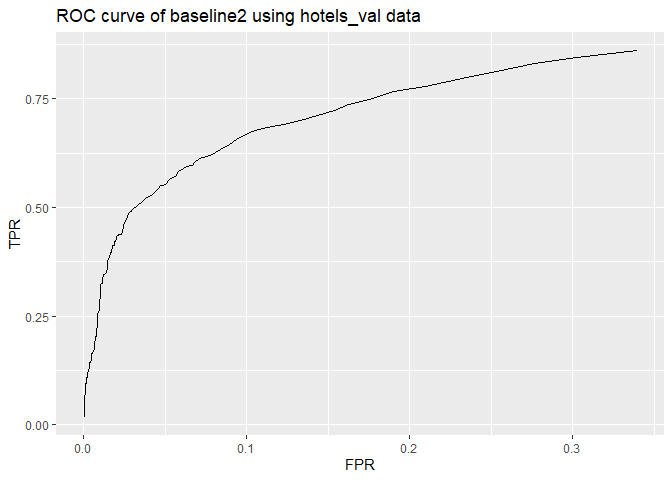
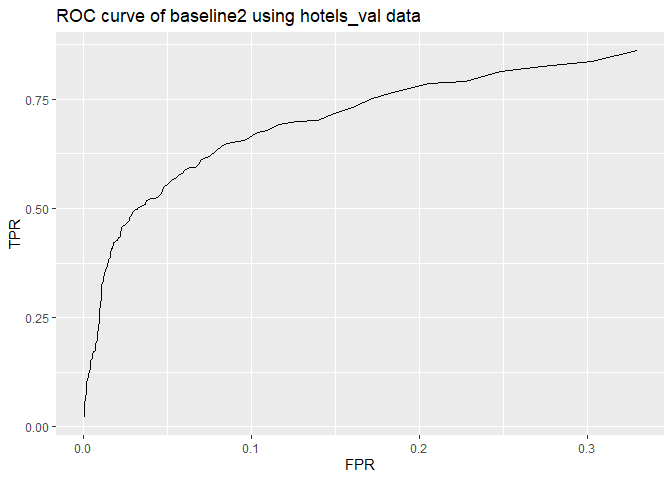
Final

diff --git a/HW2_RM.md b/HW2_RM.md
@@ -1,13 +1,8 @@
 ## Question 1. Data Visualization
 
-![](HW2_RM_files/figure-markdown_strict/unnamed-chunk-3-1.png) ### On
-weekdays, the average number of boardings is roughly the same, and on
-weekends, it drops as expected. On weekdays, the peak hour of boarding
-numbers remains consistent between 3 and 5 pm for all three months,
-owing to the fact that classes normally complete around that time. The
-average boardings on Mondays in September are lower due to Labor Day,
-which falls on the first Monday of the month, and those on Wednesdays,
-Thursdays, and Fridays in November due to the Thanksgiving holidays)
+![](HW2_RM_files/figure-markdown_strict/unnamed-chunk-3-1.png)
+
+### On weekdays, the average number of boardings is roughly the same, and on weekends, it drops as expected. On weekdays, the peak hour of boarding numbers remains consistent between 3 and 5 pm for all three months, owing to the fact that classes normally complete around that time. The average boardings on Mondays in September are lower due to Labor Day, which falls on the first Monday of the month, and those on Wednesdays, Thursdays, and Fridays in November due to the Thanksgiving holidays)
 
 ![](HW2_RM_files/figure-markdown_strict/unnamed-chunk-5-1.png)
 
@@ -24,48 +19,48 @@ Thursdays, and Fridays in November due to the Thanksgiving holidays)
     ## 
     ## Residuals:
     ##     Min      1Q  Median      3Q     Max 
-    ## -229146  -34487   -5753   27484  457291 
+    ## -220402  -34540   -5128   27705  461251 
     ## 
     ## Coefficients:
     ##                          Estimate Std. Error t value Pr(>|t|)    
-    ## (Intercept)             1.934e+05  2.232e+04   8.665  < 2e-16 ***
-    ## lotSize                 9.142e+03  2.282e+03   4.006 6.48e-05 ***
-    ## age                    -4.339e+01  6.082e+01  -0.713 0.475726    
-    ## landValue               8.835e-01  4.984e-02  17.726  < 2e-16 ***
-    ## livingArea              6.230e+01  4.993e+00  12.477  < 2e-16 ***
-    ## bedrooms               -6.427e+03  2.728e+03  -2.356 0.018622 *  
-    ## fireplaces              1.857e+03  3.110e+03   0.597 0.550478    
-    ## bathrooms               2.564e+03  7.974e+03   0.322 0.747833    
-    ## rooms                  -2.348e+03  2.171e+03  -1.082 0.279619    
-    ## heatinghot water/steam -5.864e+03  4.399e+03  -1.333 0.182728    
-    ## heatingelectric        -2.213e+03  1.268e+04  -0.175 0.861457    
-    ## fuelelectric           -5.582e+03  1.247e+04  -0.448 0.654511    
-    ## fueloil                -2.795e+03  5.011e+03  -0.558 0.577112    
-    ## waterfrontNo           -1.246e+05  1.555e+04  -8.013 2.20e-15 ***
-    ## centralAirNo           -1.248e+04  3.612e+03  -3.454 0.000567 ***
-    ## bathrooms:rooms         2.835e+03  9.946e+02   2.851 0.004422 ** 
+    ## (Intercept)             1.847e+05  2.306e+04   8.010 2.25e-15 ***
+    ## lotSize                 1.012e+04  2.368e+03   4.273 2.05e-05 ***
+    ## age                    -7.807e+01  5.974e+01  -1.307  0.19152    
+    ## landValue               8.539e-01  4.917e-02  17.367  < 2e-16 ***
+    ## livingArea              6.782e+01  4.896e+00  13.853  < 2e-16 ***
+    ## bedrooms               -8.189e+03  2.721e+03  -3.009  0.00266 ** 
+    ## fireplaces              2.347e+03  3.067e+03   0.765  0.44426    
+    ## bathrooms               3.299e+03  7.854e+03   0.420  0.67449    
+    ## rooms                  -1.592e+03  2.134e+03  -0.746  0.45567    
+    ## heatinghot water/steam -8.792e+03  4.350e+03  -2.021  0.04345 *  
+    ## heatingelectric        -1.445e+03  1.254e+04  -0.115  0.90825    
+    ## fuelelectric           -7.236e+03  1.232e+04  -0.587  0.55702    
+    ## fueloil                -3.536e+03  4.961e+03  -0.713  0.47612    
+    ## waterfrontNo           -1.204e+05  1.716e+04  -7.017 3.40e-12 ***
+    ## centralAirNo           -9.728e+03  3.588e+03  -2.711  0.00678 ** 
+    ## bathrooms:rooms         2.410e+03  9.851e+02   2.446  0.01455 *  
     ## ---
     ## Signif. codes:  0 '***' 0.001 '**' 0.01 '*' 0.05 '.' 0.1 ' ' 1
     ## 
-    ## Residual standard error: 58470 on 1539 degrees of freedom
-    ## Multiple R-squared:  0.6477, Adjusted R-squared:  0.6443 
-    ## F-statistic: 188.6 on 15 and 1539 DF,  p-value: < 2.2e-16
+    ## Residual standard error: 57800 on 1539 degrees of freedom
+    ## Multiple R-squared:  0.6547, Adjusted R-squared:  0.6513 
+    ## F-statistic: 194.5 on 15 and 1539 DF,  p-value: < 2.2e-16
 
 ## Question 3. Classification and retrospective sampling
 
 ![](HW2_RM_files/figure-markdown_strict/unnamed-chunk-11-1.png)
 
     ##         (Intercept)            duration              amount         installment 
-    ##                0.49                1.03                1.00                1.26 
+    ##                0.44                1.03                1.00                1.29 
     ##                 age         historypoor     historyterrible          purposeedu 
-    ##                0.98                0.26                0.11                2.74 
+    ##                0.98                0.27                0.12                1.32 
     ## purposegoods/repair       purposenewcar      purposeusedcar       foreigngerman 
-    ##                1.29                2.66                0.46                0.16
+    ##                1.16                2.44                0.58                0.37
 
     ##    yhat
     ## y     0   1
-    ##   0 159  17
-    ##   1  53  21
+    ##   0 161  15
+    ##   1  60  14
 
 <table>
 <thead>
@@ -94,7 +89,7 @@ Thursdays, and Fridays in November due to the Thanksgiving holidays)
 </tbody>
 </table>
 
-### The ‘historypoor’ variable multiplies odds of default by 0.39 in this logistic regression model, while the ‘historyterrible’ variable multiplies odds of default by 0.19. This means that having poor or terrible credit actually decreases the probability of default. This contradicts common sense; we believe the dataset is insufficient for developing a predictive model of defaults, particularly if the program’s goal is to screen potential borrowers and identify them as having a “high” or “low” risk of default. It’s due to the data sampling procedure. Instead of random sample, the bank chose defaulted loans and looked for similar loans during the data sampling procedure. This most certainly resulted in a significant bias in the data collection process: as previously stated, defaulted loans are likely to have low or horrible credit histories, and there would be insufficient datasets with good credit histories. In fact, just 89 observations out of 1000 had a decent credit history. Even though there would be a small number of defaulted loans, I would advise the bank to employ a random sample method. Increasing the size of the observations, if possible, will be really beneficial.
+#### The `historypoor` variable multiplies odds of default by 0.39 in this logistic regression model, while the `historyterrible` variable multiplies odds of default by 0.19. This means that having poor or terrible credit actually decreases the probability of default. This contradicts common sense; we believe the dataset is insufficient for developing a predictive model of defaults, particularly if the program’s goal is to screen potential borrowers and identify them as having a “high” or “low” risk of default. It’s due to the data sampling procedure. Instead of random sample, the bank chose defaulted loans and looked for similar loans during the data sampling procedure. This most certainly resulted in a significant bias in the data collection process: as previously stated, defaulted loans are likely to have low or horrible credit histories, and there would be insufficient datasets with good credit histories. In fact, just 89 observations out of 1000 had a decent credit history. Even though there would be a small number of defaulted loans, I would advise the bank to employ a random sample method. Increasing the size of the observations, if possible, will be really beneficial.
 
 ## Question 4. Children and hotel reservations
 
@@ -116,14 +111,14 @@ Thursdays, and Fridays in November due to the Thanksgiving holidays)
 </tr>
 <tr class="even">
 <td style="text-align: left;">baseline2</td>
-<td style="text-align: right;">0.0500688</td>
-<td style="text-align: right;">0.0012571</td>
+<td style="text-align: right;">0.0558459</td>
+<td style="text-align: right;">0.0016681</td>
 <td style="text-align: right;">0.7</td>
 </tr>
 <tr class="odd">
 <td style="text-align: left;">LPM</td>
-<td style="text-align: right;">0.0269601</td>
-<td style="text-align: right;">0.0007494</td>
+<td style="text-align: right;">0.0283356</td>
+<td style="text-align: right;">0.0008945</td>
 <td style="text-align: right;">0.7</td>
 </tr>
 <tr class="even">
@@ -134,32 +129,32 @@ Thursdays, and Fridays in November due to the Thanksgiving holidays)
 </tr>
 <tr class="odd">
 <td style="text-align: left;">baseline2</td>
-<td style="text-align: right;">0.0822558</td>
-<td style="text-align: right;">0.0026593</td>
+<td style="text-align: right;">0.0921596</td>
+<td style="text-align: right;">0.0029252</td>
 <td style="text-align: right;">0.5</td>
 </tr>
 <tr class="even">
 <td style="text-align: left;">LPM</td>
-<td style="text-align: right;">0.0830812</td>
-<td style="text-align: right;">0.0033362</td>
+<td style="text-align: right;">0.0902338</td>
+<td style="text-align: right;">0.0034329</td>
 <td style="text-align: right;">0.5</td>
 </tr>
 <tr class="odd">
 <td style="text-align: left;">baseline1</td>
+<td style="text-align: right;">0.0002751</td>
 <td style="text-align: right;">0.0000000</td>
-<td style="text-align: right;">0.0000484</td>
 <td style="text-align: right;">0.2</td>
 </tr>
 <tr class="even">
 <td style="text-align: left;">baseline2</td>
-<td style="text-align: right;">0.1262724</td>
-<td style="text-align: right;">0.0109271</td>
+<td style="text-align: right;">0.1389271</td>
+<td style="text-align: right;">0.0109755</td>
 <td style="text-align: right;">0.2</td>
 </tr>
 <tr class="odd">
 <td style="text-align: left;">LPM</td>
-<td style="text-align: right;">0.1229711</td>
-<td style="text-align: right;">0.0109996</td>
+<td style="text-align: right;">0.1345254</td>
+<td style="text-align: right;">0.0122567</td>
 <td style="text-align: right;">0.2</td>
 </tr>
 </tbody>
@@ -185,131 +180,131 @@ Thursdays, and Fridays in November due to the Thanksgiving holidays)
 <tbody>
 <tr class="odd">
 <td style="text-align: left;">Fold01</td>
-<td style="text-align: left;">21</td>
 <td style="text-align: left;">19</td>
-<td style="text-align: left;">-2</td>
+<td style="text-align: left;">19</td>
+<td style="text-align: left;">0</td>
 </tr>
 <tr class="even">
 <td style="text-align: left;">Fold02</td>
-<td style="text-align: left;">20</td>
-<td style="text-align: left;">18</td>
-<td style="text-align: left;">-2</td>
+<td style="text-align: left;">22</td>
+<td style="text-align: left;">21</td>
+<td style="text-align: left;">-1</td>
 </tr>
 <tr class="odd">
 <td style="text-align: left;">Fold03</td>
-<td style="text-align: left;">23</td>
+<td style="text-align: left;">22</td>
 <td style="text-align: left;">20</td>
-<td style="text-align: left;">-3</td>
+<td style="text-align: left;">-2</td>
 </tr>
 <tr class="even">
 <td style="text-align: left;">Fold04</td>
 <td style="text-align: left;">18</td>
-<td style="text-align: left;">17</td>
-<td style="text-align: left;">-1</td>
-</tr>
-<tr class="odd">
-<td style="text-align: left;">Fold05</td>
-<td style="text-align: left;">20</td>
-<td style="text-align: left;">16</td>
-<td style="text-align: left;">-4</td>
-</tr>
-<tr class="even">
-<td style="text-align: left;">Fold06</td>
-<td style="text-align: left;">20</td>
-<td style="text-align: left;">21</td>
-<td style="text-align: left;">1</td>
-</tr>
-<tr class="odd">
-<td style="text-align: left;">Fold07</td>
-<td style="text-align: left;">18</td>
-<td style="text-align: left;">27</td>
-<td style="text-align: left;">9</td>
-</tr>
-<tr class="even">
-<td style="text-align: left;">Fold08</td>
-<td style="text-align: left;">22</td>
-<td style="text-align: left;">25</td>
-<td style="text-align: left;">3</td>
-</tr>
-<tr class="odd">
-<td style="text-align: left;">Fold09</td>
-<td style="text-align: left;">17</td>
-<td style="text-align: left;">11</td>
-<td style="text-align: left;">-6</td>
-</tr>
-<tr class="even">
-<td style="text-align: left;">Fold10</td>
-<td style="text-align: left;">21</td>
-<td style="text-align: left;">27</td>
+<td style="text-align: left;">24</td>
 <td style="text-align: left;">6</td>
 </tr>
 <tr class="odd">
-<td style="text-align: left;">Fold11</td>
+<td style="text-align: left;">Fold05</td>
 <td style="text-align: left;">22</td>
-<td style="text-align: left;">27</td>
-<td style="text-align: left;">5</td>
+<td style="text-align: left;">20</td>
+<td style="text-align: left;">-2</td>
 </tr>
 <tr class="even">
-<td style="text-align: left;">Fold12</td>
-<td style="text-align: left;">20</td>
-<td style="text-align: left;">17</td>
-<td style="text-align: left;">-3</td>
+<td style="text-align: left;">Fold06</td>
+<td style="text-align: left;">18</td>
+<td style="text-align: left;">21</td>
+<td style="text-align: left;">3</td>
 </tr>
 <tr class="odd">
-<td style="text-align: left;">Fold13</td>
+<td style="text-align: left;">Fold07</td>
+<td style="text-align: left;">22</td>
 <td style="text-align: left;">21</td>
-<td style="text-align: left;">23</td>
-<td style="text-align: left;">2</td>
+<td style="text-align: left;">-1</td>
 </tr>
 <tr class="even">
-<td style="text-align: left;">Fold14</td>
-<td style="text-align: left;">24</td>
-<td style="text-align: left;">25</td>
+<td style="text-align: left;">Fold08</td>
+<td style="text-align: left;">18</td>
+<td style="text-align: left;">19</td>
 <td style="text-align: left;">1</td>
 </tr>
 <tr class="odd">
-<td style="text-align: left;">Fold15</td>
+<td style="text-align: left;">Fold09</td>
+<td style="text-align: left;">18</td>
+<td style="text-align: left;">16</td>
+<td style="text-align: left;">-2</td>
+</tr>
+<tr class="even">
+<td style="text-align: left;">Fold10</td>
+<td style="text-align: left;">20</td>
+<td style="text-align: left;">19</td>
+<td style="text-align: left;">-1</td>
+</tr>
+<tr class="odd">
+<td style="text-align: left;">Fold11</td>
+<td style="text-align: left;">23</td>
+<td style="text-align: left;">20</td>
+<td style="text-align: left;">-3</td>
+</tr>
+<tr class="even">
+<td style="text-align: left;">Fold12</td>
+<td style="text-align: left;">23</td>
+<td style="text-align: left;">28</td>
+<td style="text-align: left;">5</td>
+</tr>
+<tr class="odd">
+<td style="text-align: left;">Fold13</td>
 <td style="text-align: left;">22</td>
-<td style="text-align: left;">17</td>
-<td style="text-align: left;">-5</td>
+<td style="text-align: left;">20</td>
+<td style="text-align: left;">-2</td>
+</tr>
+<tr class="even">
+<td style="text-align: left;">Fold14</td>
+<td style="text-align: left;">22</td>
+<td style="text-align: left;">22</td>
+<td style="text-align: left;">0</td>
+</tr>
+<tr class="odd">
+<td style="text-align: left;">Fold15</td>
+<td style="text-align: left;">18</td>
+<td style="text-align: left;">18</td>
+<td style="text-align: left;">0</td>
 </tr>
 <tr class="even">
 <td style="text-align: left;">Fold16</td>
-<td style="text-align: left;">21</td>
-<td style="text-align: left;">17</td>
-<td style="text-align: left;">-4</td>
+<td style="text-align: left;">18</td>
+<td style="text-align: left;">11</td>
+<td style="text-align: left;">-7</td>
 </tr>
 <tr class="odd">
 <td style="text-align: left;">Fold17</td>
-<td style="text-align: left;">20</td>
 <td style="text-align: left;">18</td>
-<td style="text-align: left;">-2</td>
+<td style="text-align: left;">17</td>
+<td style="text-align: left;">-1</td>
 </tr>
 <tr class="even">
 <td style="text-align: left;">Fold18</td>
 <td style="text-align: left;">19</td>
-<td style="text-align: left;">17</td>
-<td style="text-align: left;">-2</td>
+<td style="text-align: left;">24</td>
+<td style="text-align: left;">5</td>
 </tr>
 <tr class="odd">
 <td style="text-align: left;">Fold19</td>
-<td style="text-align: left;">25</td>
+<td style="text-align: left;">22</td>
 <td style="text-align: left;">20</td>
-<td style="text-align: left;">-5</td>
+<td style="text-align: left;">-2</td>
 </tr>
 <tr class="even">
 <td style="text-align: left;">Fold20</td>
-<td style="text-align: left;">20</td>
-<td style="text-align: left;">20</td>
-<td style="text-align: left;">0</td>
+<td style="text-align: left;">24</td>
+<td style="text-align: left;">22</td>
+<td style="text-align: left;">-2</td>
 </tr>
 <tr class="odd">
 <td style="text-align: left;">Total</td>
-<td style="text-align: left;">414</td>
+<td style="text-align: left;">408</td>
 <td style="text-align: left;">402</td>
-<td style="text-align: left;">12</td>
+<td style="text-align: left;">6</td>
 </tr>
 </tbody>
 </table>
 
-### The model does the prediction pretty well. It only got 12 predictions wrong in total out of 4999 observations though if you look at each folds individually there is a difference as in sometimes we have negative and sometimes positive values, but in total it all averages out to 12.
+### The model does the prediction pretty well. It only got 6 predictions wrong in total out of 4999 observations though if you look at each folds individually there is a difference as in sometimes we have negative and sometimes positive values, but in total it all averages out to 6.
